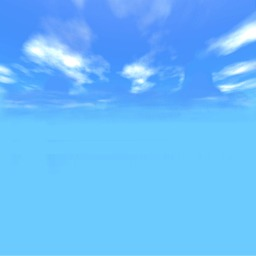
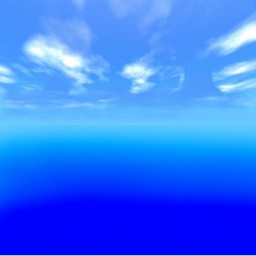
Realizo cambio para que el skybox se mueva con la camara

diff --git a/TGC.Group/Model/GameModel.cs b/TGC.Group/Model/GameModel.cs
@@ -29,8 +29,8 @@ namespace TGC.Group.Model
         private Sky skyBox;
         private Perimeter currentCameraArea;
         private Ship ship;
-        private Tuple<float, float> positionRangeX = new Tuple<float, float>(-2900, 2900);
-        private Tuple<float, float> positionRangeZ = new Tuple<float, float>(-2900, 2900);
+        private Tuple<float, float> positionRangeX = new Tuple<float, float>(-4000, 4000);
+        private Tuple<float, float> positionRangeZ = new Tuple<float, float>(-4000, 4000);
         private FishBuilder fishBuilder;
         private Terrain terrain;
         private Water water;
@@ -47,7 +47,7 @@ namespace TGC.Group.Model
             fishBuilder = new FishBuilder(mediaDir);
             meshBuilder = new MeshBuilder();
             MeshDuplicator.MediaDir = mediaDir;
-            D3DDevice.Instance.ZFarPlaneDistance = 16000f;
+            D3DDevice.Instance.ZFarPlaneDistance = 8000f;
         }
 
         public override void Init()
@@ -63,7 +63,7 @@ namespace TGC.Group.Model
             terrain.splitToArea();
             water = new Water(MediaDir, ShadersDir);
             water.LoadWorld(new TGCVector3(0, 3500, 0));
-            skyBox = new Sky(MediaDir, ShadersDir);
+            skyBox = new Sky(MediaDir, ShadersDir, Camara);
             skyBox.LoadSkyBox();
             #endregion
 
@@ -100,7 +100,6 @@ namespace TGC.Group.Model
             if (Input.keyPressed(Key.E) && camaraInRoom())
             {
                 var position = new TGCVector3(1300, 3505, 20);
-                //Camara = new CameraFPS(Input, position);
                 ((CameraFPS)Camara).TeleportCamera(position);
             }
 
@@ -203,9 +202,9 @@ namespace TGC.Group.Model
 
         private void meshInitializer()
         {
-            var treeCorals = meshBuilder.CreateNewScaledMeshes(MeshType.treeCoral, 33, 10);
+            var treeCorals = meshBuilder.CreateNewScaledMeshes(MeshType.treeCoral, 15, 10);
             meshBuilder.LocateMeshesInTerrain(ref treeCorals, positionRangeX, positionRangeZ, terrain.world);
-            var spiralCorals = meshBuilder.CreateNewScaledMeshes(MeshType.spiralCoral, 33, 10);
+            var spiralCorals = meshBuilder.CreateNewScaledMeshes(MeshType.spiralCoral, 15, 10);
             meshBuilder.LocateMeshesInTerrain(ref spiralCorals, positionRangeX, positionRangeZ, terrain.world);
             var goldOre = meshBuilder.CreateNewScaledMeshes(MeshType.goldOre, 15, 5);
             meshBuilder.LocateMeshesInTerrain(ref goldOre, positionRangeX, positionRangeZ, terrain.world);
@@ -219,9 +218,9 @@ namespace TGC.Group.Model
             meshBuilder.LocateMeshesInTerrain(ref ironOre, positionRangeX, positionRangeZ, terrain.world);
             var ironOreCommon = meshBuilder.CreateNewScaledMeshes(MeshType.ironOreCommon, 15, 5);
             meshBuilder.LocateMeshesInTerrain(ref ironOreCommon, positionRangeX, positionRangeZ, terrain.world);
-            var rock = meshBuilder.CreateNewScaledMeshes(MeshType.rock, 30, 8);
+            var rock = meshBuilder.CreateNewScaledMeshes(MeshType.rock, 15, 8);
             meshBuilder.LocateMeshesInTerrain(ref rock, positionRangeX, positionRangeZ, terrain.world);
-            var alga = meshBuilder.CreateNewScaledMeshes(MeshType.alga, 200, 5);
+            var alga = meshBuilder.CreateNewScaledMeshes(MeshType.alga, 365, 5);
             meshBuilder.LocateMeshesInTerrain(ref alga, positionRangeX, positionRangeZ, terrain.world);
 
             corales.AddRange(treeCorals);

diff --git a/TGC.Group/Model/Terrains/sky.cs b/TGC.Group/Model/Terrains/sky.cs
@@ -3,6 +3,7 @@ using System.Collections.Generic;
 using System.Linq;
 using System.Text;
 using System.Threading.Tasks;
+using TGC.Core.Camara;
 using TGC.Core.Direct3D;
 using TGC.Core.Mathematica;
 using TGC.Core.Terrain;
@@ -17,16 +18,19 @@ namespace TGC.Group.Model.Terrains
         private string MediaDir;
         private string ShadersDir;
 
-        public Sky(string mediaDir, string shadersDir)
+        private CameraFPS Camera;
+
+        public Sky(string mediaDir, string shadersDir, TgcCamera camera)
         {
             sky = new TgcSkyBox
             {
-                Size = new TGCVector3(15000, 15000, 15000),
-                Center = new TGCVector3(0, 1500, 0)
+                Size = new TGCVector3(9000, 9000, 9000),
+                Center = new TGCVector3(0, 1800, 0)
             };
 
             MediaDir = mediaDir;
             ShadersDir = shadersDir;
+            Camera = (CameraFPS)camera;
         }
 
         public void LoadSkyBox()
@@ -47,6 +51,7 @@ namespace TGC.Group.Model.Terrains
 
         public virtual void Render()
         {
+            sky.Center = new TGCVector3(Camera.Position.X, sky.Center.Y, Camera.Position.Z);
             sky.Render();
         }
 
